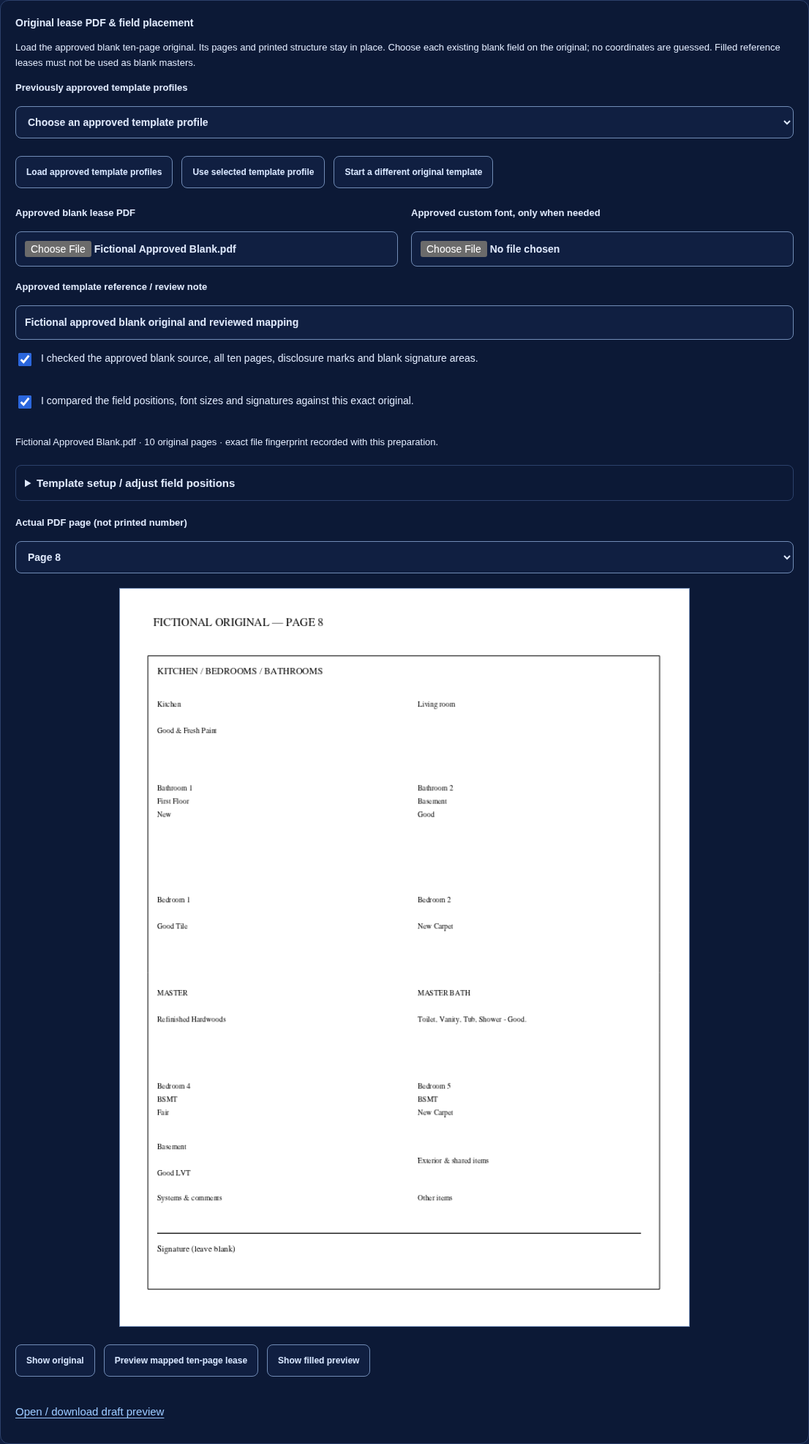
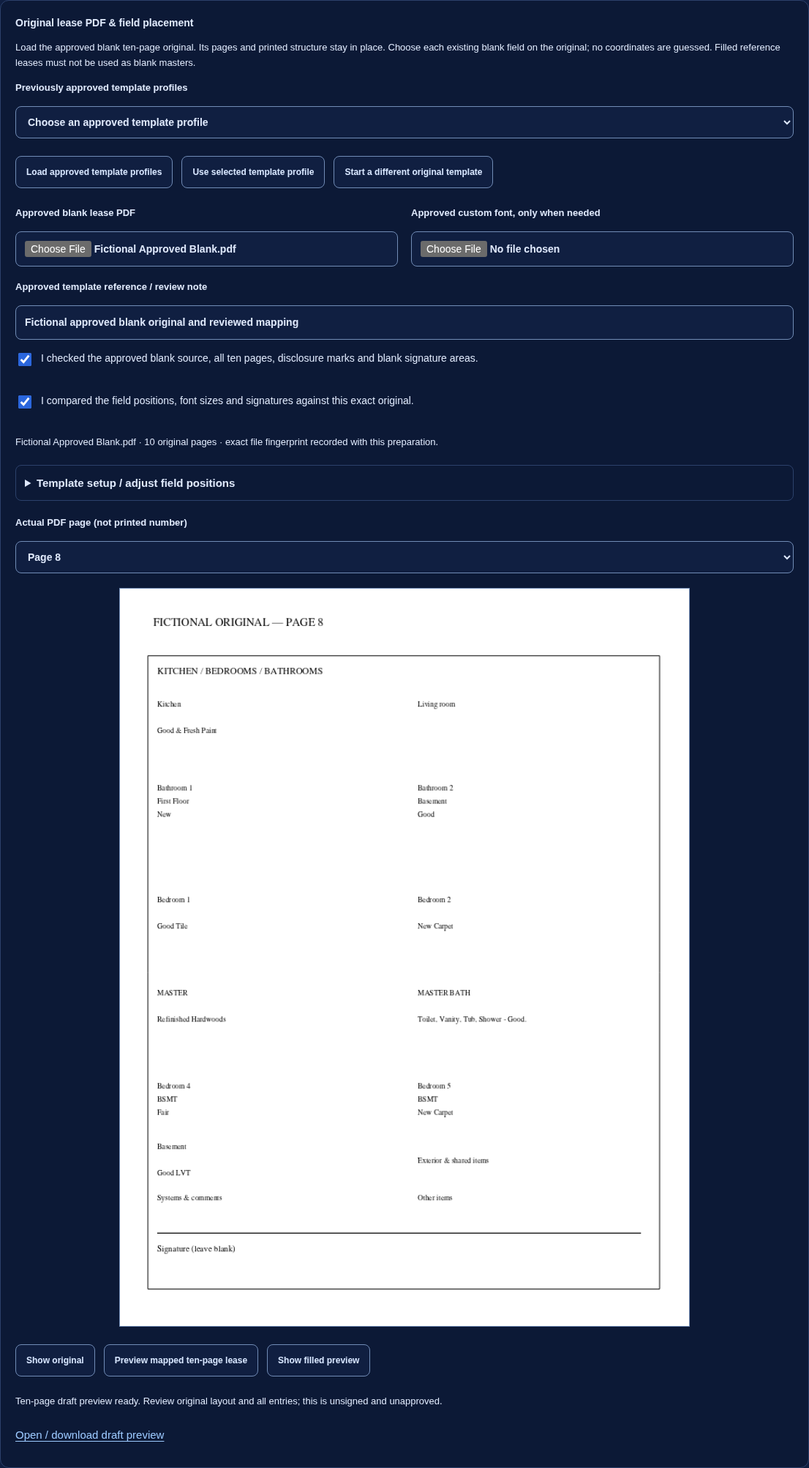
Harden lease approval and asynchronous preview recovery

diff --git a/lease-template-editor.js b/lease-template-editor.js
@@ -42,6 +42,7 @@
  settings.append(el('p','Click a blank position on the original to set X/Y, then verify its dimensions and original font. Signatures remain unfilled. Changes require a fresh PDF preview and review.'));
  const previewActions=el('div');previewActions.className='lease-draft-actions';
  previewActions.append(button('Show original',()=>render(original)),button('Preview mapped ten-page lease',preview),button('Show filled preview',()=>render(previewBytes)));host.append(previewActions);
+ const pdfStatus=el('p');pdfStatus.id='lease-template-preview-status';pdfStatus.setAttribute('role','status');host.append(pdfStatus);
  const previewLink=el('a','Open / download draft preview');previewLink.id='lease-template-preview-link';previewLink.hidden=true;previewLink.target='_blank';previewLink.rel='noopener';host.append(previewLink);
  D.getPage8Host().append(host);
  const contextHost=el('section');contextHost.className='lease-unit-context';contextHost.setAttribute('aria-label','Saved unit and lease context');const contextStatus=el('p');contextStatus.id='lease-template-context';
@@ -69,7 +70,7 @@
  }
  function invalidate(){dataFingerprint=E.canonical(data());previewFingerprint='';previewBytes=null;reviewConfirm.checked=false;if(previewLink.href)URL.revokeObjectURL(previewLink.href);previewLink.removeAttribute('href');previewLink.hidden=true;controls();bindings();}
  function bindings(){const previous=binding.value;binding.replaceChildren();for(const key of Object.keys(P.values(D.getState()||{})).filter(k=>!k.includes('/unplaced/')))binding.add(new Option(key.replaceAll('slot/','Page 8 / ').replaceAll('term/','Lease / '),key));if([...binding.options].some(o=>o.value===previous))binding.value=previous;}
- function clear(){clearTimeout(liveTimer);epoch++;contextRead++;renderTicket++;busy=false;original=null;info=null;fontBytes=null;fontSha256='';map=null;record=null;pending=null;previewBytes=null;sourceContext=null;contextUnit='';currentLease='';activeMap=-1;file.value='';fontFile.value='';importFile.value='';reference.value='';originalReviewed.checked=false;mappingReviewed.checked=false;sourceStatus.textContent='Choose the approved blank original; exact layout cannot be verified from the reconstructed draft.';contextStatus.textContent='Select a protected unit to load recorded facts. Unknown room facts stay unconfirmed.';lease.replaceChildren(new Option('New tenancy / no source lease',''));conditionVersion.replaceChildren(new Option('Latest approved conditions',''));saved.replaceChildren();knownProfiles=[];profiles.replaceChildren(new Option('Choose an approved template profile',''));mapList.replaceChildren();canvas.width=1;canvas.height=1;canvas.removeAttribute('data-view');page.value='8';boxes.replaceChildren();status.textContent='';invalidate();}
+ function clear(){clearTimeout(liveTimer);epoch++;contextRead++;renderTicket++;busy=false;original=null;info=null;fontBytes=null;fontSha256='';map=null;record=null;pending=null;previewBytes=null;sourceContext=null;contextUnit='';currentLease='';activeMap=-1;file.value='';fontFile.value='';importFile.value='';reference.value='';originalReviewed.checked=false;mappingReviewed.checked=false;sourceStatus.textContent='Choose the approved blank original; exact layout cannot be verified from the reconstructed draft.';contextStatus.textContent='Select a protected unit to load recorded facts. Unknown room facts stay unconfirmed.';lease.replaceChildren(new Option('New tenancy / no source lease',''));conditionVersion.replaceChildren(new Option('Latest approved conditions',''));saved.replaceChildren();knownProfiles=[];profiles.replaceChildren(new Option('Choose an approved template profile',''));mapList.replaceChildren();canvas.width=1;canvas.height=1;canvas.removeAttribute('data-view');page.value='8';boxes.replaceChildren();status.textContent='';pdfStatus.textContent='';invalidate();}
  function savedFile(bytes,name,type='application/pdf'){const url=URL.createObjectURL(new Blob([bytes],{type})),a=el('a');a.href=url;a.download=name;document.body.append(a);a.click();a.remove();setTimeout(()=>URL.revokeObjectURL(url),30000);}
  async function pdfModule(){if(!pdfjs){pdfjs=await import('./vendor/lease-pdf/pdfjs/pdf.mjs');pdfjs.GlobalWorkerOptions.workerSrc=new URL('vendor/lease-pdf/pdfjs/pdf.worker.mjs',document.baseURI).href;}return pdfjs;}
  async function render(bytes){
@@ -92,7 +93,7 @@
  mapList.onchange=()=>{activeMap=mapList.value===''?-1:Number(mapList.value);const r=activeMap>=1000?map?.protectedAreas[activeMap-1000]:map?.fields[activeMap];if(!r)return;page.value=String(r.page);if(r.key)binding.value=r.key;for(const [n,v]of [[x,r.x],[y,r.y],[width,r.width],[height,r.height],[size,r.size||9]])n.value=String(v);font.value=r.font||'Helvetica';align.value=r.align||'left';kind.value=activeMap>=1000?'signature':'field';render(original)};
  canvas.onclick=event=>{if(!info||canvas.dataset.view!=='original'||busy)return;const rect=canvas.getBoundingClientRect(),dims=info.pages[Number(page.value)-1];x.value=((event.clientX-rect.left)/rect.width*dims.width).toFixed(2);y.value=(dims.height-(event.clientY-rect.top)/rect.height*dims.height-Number(height.value)).toFixed(2);};
  page.onchange=()=>render(canvas.dataset.view==='preview'?previewBytes:original);
- file.onchange=async()=>{const user=C.user?.id,ticket=++epoch,chosen=file.files[0];if(!user||!chosen)return;original=null;info=null;invalidate();try{const bytes=new Uint8Array(await chosen.arrayBuffer()),source=await E.inspect(bytes);if(!live(ticket,user))return;
+ file.onchange=async()=>{const user=C.user?.id,ticket=++epoch,chosen=file.files[0];if(!user||!chosen)return;original=null;info=null;renderTicket++;canvas.width=1;canvas.height=1;canvas.removeAttribute('data-view');invalidate();try{const bytes=new Uint8Array(await chosen.arrayBuffer()),source=await E.inspect(bytes);if(!live(ticket,user))return;
    if(map&&map.templateSha256!==source.sha256&&record)throw Error('Attach the exact original for this saved template; its fingerprint differs.');
    original=bytes;info=source;if(!map||map.templateSha256!==source.sha256){map={schema_version:'oaktown.lease-template-map.v1',templateSha256:source.sha256,pages:source.pages,fields:[],protectedAreas:[]};originalReviewed.checked=false;mappingReviewed.checked=false}
    sourceStatus.textContent=chosen.name+' · 10 original pages · exact file fingerprint recorded with this preparation.';refreshMapList();invalidate();await render(original);
@@ -101,11 +102,11 @@
  importFile.onchange=async()=>{const user=C.user?.id,ticket=epoch,chosen=importFile.files[0];if(!chosen||!user)return;try{if(!info)throw Error('Load the exact original before importing its mapping.');if(chosen.size>250000)throw Error('Mapping file is too large.');const candidate=JSON.parse(await chosen.text());E.validateMap(candidate,info);if(!live(ticket,user))return;map=candidate;mappingReviewed.checked=false;refreshMapList();invalidate();say('Mapping loaded. Review it on this exact original.')}catch(error){if(live(ticket,user))say(error.message)}};
  for(const n of [reference,originalReviewed,mappingReviewed,reviewConfirm])n.addEventListener('change',()=>{if(n!==reviewConfirm)invalidate();controls()});
  reference.addEventListener('input',invalidate);
- async function preview(){const user=C.user?.id,ticket=epoch,snapshot=data();if(!user)return;try{if(!original)throw Error('Attach the approved original PDF first.');const result=await E.generate(original,snapshot,{fontkit:window.fontkit,fontBytes,viewerUser:()=>C.user?.id});if(!live(ticket,user)||E.canonical(snapshot)!==E.canonical(data()))return;previewBytes=result.bytes;if(!await render(previewBytes)){previewFingerprint='';controls();return}if(!live(ticket,user)||E.canonical(snapshot)!==E.canonical(data()))return;previewFingerprint=E.canonical(snapshot);if(previewLink.href)URL.revokeObjectURL(previewLink.href);previewLink.href=URL.createObjectURL(new Blob([previewBytes],{type:'application/pdf'}));previewLink.download='DRAFT - Lease Preview.pdf';previewLink.hidden=false;say('Ten-page draft preview ready. Review original layout and all entries; this is unsigned and unapproved.');controls()}catch(error){if(live(ticket,user))say(error.message)}}
- function schedulePreview(){clearTimeout(liveTimer);if(!original||!map?.fields?.length||!originalReviewed.checked||!mappingReviewed.checked||busy||pending)return;liveTimer=setTimeout(()=>{if(!busy&&!pending&&document.getElementById('newlease-form')?.contains(document.activeElement))preview()},450);}
+ async function preview({automatic=false}={}){if(!automatic)clearTimeout(liveTimer);const notice=message=>{pdfStatus.textContent=message;if(!automatic)say(message)};const user=C.user?.id,ticket=epoch,snapshot=data();if(!user)return;try{if(!original)throw Error('Attach the approved original PDF first.');const result=await E.generate(original,snapshot,{fontkit:window.fontkit,fontBytes,viewerUser:()=>C.user?.id});if(!live(ticket,user)||E.canonical(snapshot)!==E.canonical(data()))return;previewBytes=result.bytes;if(!await render(previewBytes)){previewFingerprint='';controls();return}if(!live(ticket,user)||E.canonical(snapshot)!==E.canonical(data()))return;previewFingerprint=E.canonical(snapshot);if(previewLink.href)URL.revokeObjectURL(previewLink.href);previewLink.href=URL.createObjectURL(new Blob([previewBytes],{type:'application/pdf'}));previewLink.download='DRAFT - Lease Preview.pdf';previewLink.hidden=false;notice('Ten-page draft preview ready. Review original layout and all entries; this is unsigned and unapproved.');controls()}catch(error){if(live(ticket,user))notice(error.message)}}
+ function schedulePreview(){clearTimeout(liveTimer);if(!original||!map?.fields?.length||!originalReviewed.checked||!mappingReviewed.checked||busy||pending)return;liveTimer=setTimeout(()=>{if(!busy&&!pending&&document.getElementById('newlease-form')?.contains(document.activeElement))preview({automatic:true})},450);}
  function readiness(){const snapshot=data(),issues=[...M.readiness(snapshot.state).missing,...P.layoutProblems(snapshot.state)];if(!original||!map)issues.push('Attach the exact approved original and field mapping.');else{try{E.validateMap(map,info);issues.push(...E.coverage(snapshot))}catch(error){issues.push(error.message)}}if(!originalReviewed.checked||!mappingReviewed.checked||!reference.value.trim())issues.push('Review and identify the blank master and mapping.');if(previewFingerprint!==E.canonical(snapshot))issues.push('Preview and review this exact current PDF first.');return issues;}
  async function mutate(action,payload){
-  const user=C.user?.id,ticket=epoch;if(!user||busy)return;busy=true;D.setBusy(true);controls();
+  const user=C.user?.id,ticket=epoch;if(!user||busy)return;clearTimeout(liveTimer);busy=true;D.setBusy(true);controls();
   try{const response=await native(action,payload);if(!live(ticket,user))return;const saved=await native('get',{id:payload.id});if(!live(ticket,user))return;
    if(response.id!==saved.id||response.version!==saved.version||E.canonical(response.data)!==E.canonical(saved.data)||E.canonical(saved.data)!==E.canonical(data()))throw Error('Saved preparation could not be independently verified. Retry the identical request.');
    if(action==='approve'&&!E.approved(saved.data,saved))throw Error('Approval receipt could not be verified.');
@@ -119,14 +120,14 @@
  async function approve(){if(busy||pending||!record||record.status!=='ready'||!reviewConfirm.checked)return;const issues=readiness();if(issues.length){say(issues.join(' '));return}const payload={id:record.id,expected_version:record.version,request_ref:crypto.randomUUID(),reviewed:true,confirmation:'APPROVE '+record.id+' VERSION '+record.version};pending={action:'approve',payload};await mutate('approve',payload);}
  async function retry(){if(pending&&!busy)await mutate(pending.action,structuredClone(pending.payload));}
  async function list(){const user=C.user?.id,ticket=epoch;if(!user||busy)return;try{const result=await native('list',D.getState()?.unitId?{unit_id:D.getState().unitId}:{});if(!live(ticket,user))return;if(!Array.isArray(result?.cases))throw Error('Saved preparation list is unavailable.');saved.replaceChildren(...result.cases.map(r=>new Option(r.status+' · version '+r.version+' · '+new Date(r.updated_at).toLocaleString(),r.id)));say(result.has_more?'Showing the latest 50 preparations for this selection.':'Saved preparations loaded. Loading replaces current inputs only after confirmation.')}catch(error){if(live(ticket,user))say(error.message)}}
- async function load(){const user=C.user?.id,ticket=epoch,id=saved.value;if(!id||!user||busy)return;if(!confirm('Load this saved preparation and replace current working inputs?'))return;try{const result=await native('get',{id});if(!live(ticket,user))return;restoring=true;try{D.restore(result.data.state)}finally{restoring=false}record=result;currentLease=result.data.leaseId||'';const t=result.data.template||{};map=t.map||null;reference.value=t.reference||'';originalReviewed.checked=t.originalReviewed===true;mappingReviewed.checked=t.mappingReviewed===true;fontSha256=t.fontSha256||'';original=null;info=null;fontBytes=null;file.value='';fontFile.value='';canvas.width=1;canvas.height=1;canvas.removeAttribute('data-view');page.value='8';contextUnit='';loadContext();refreshMapList();invalidate();say('Saved preparation loaded. Attach the same original PDF/font to preview or export; stored conditions are not a new inspection.');controls()}catch(error){restoring=false;if(live(ticket,user))say(error.message)}}
+ async function load(){const user=C.user?.id,ticket=epoch,id=saved.value,starting=E.canonical(data());if(!id||!user||busy)return;if(!confirm('Load this saved preparation and replace current working inputs?'))return;try{const result=await native('get',{id});if(!live(ticket,user))return;if(starting!==E.canonical(data()))throw Error('Working inputs changed while loading. Review them before loading again.');restoring=true;try{D.restore(result.data.state)}finally{restoring=false}record=result;currentLease=result.data.leaseId||'';const t=result.data.template||{};map=t.map||null;reference.value=t.reference||'';originalReviewed.checked=t.originalReviewed===true;mappingReviewed.checked=t.mappingReviewed===true;fontSha256=t.fontSha256||'';original=null;info=null;fontBytes=null;file.value='';fontFile.value='';canvas.width=1;canvas.height=1;canvas.removeAttribute('data-view');page.value='8';contextUnit='';loadContext();refreshMapList();invalidate();say('Saved preparation loaded. Attach the same original PDF/font to preview or export; stored conditions are not a new inspection.');controls()}catch(error){restoring=false;if(live(ticket,user))say(error.message)}}
  async function downloadFinal(){const user=C.user?.id,ticket=epoch,snapshot=data();if(!user||busy||pending)return;try{const approved=record&&await native('get',{id:record.id});if(!live(ticket,user))return;if(E.canonical(snapshot)!==E.canonical(data()))throw Error('Inputs changed; review again.');const result=await E.generate(original,snapshot,{fontkit:window.fontkit,fontBytes,approval:approved,final:true,viewerUser:()=>C.user?.id});if(!live(ticket,user))return;if(E.canonical(snapshot)!==E.canonical(data()))throw Error('Inputs changed during generation; review the current preparation.');savedFile(result.bytes,'Prepared Lease - unsigned.pdf');say('Approved preparation PDF downloaded. Signature areas remain unsigned; nothing was sent.')}catch(error){if(live(ticket,user))say(error.message)}}
  async function loadContext(){const state=D.getState(),unit=state?.unitId,user=C.user?.id,ticket=++contextRead;if(!user||!uuid(unit))return;contextUnit=unit;try{const result=await native('context',{unit_id:unit});if(ticket!==contextRead||C.user?.id!==user||D.getState()?.unitId!==unit)return;if(result?.unit?.id!==unit||!Array.isArray(result.leases))throw Error('Unit context could not be verified.');sourceContext=result;lease.replaceChildren(new Option('New tenancy / no source lease',''),...result.leases.map(l=>new Option((l.lease_label||'Lease')+' · '+l.verification_status,l.id)));lease.value=currentLease;conditionVersion.replaceChildren(new Option('Latest approved conditions',''),...(result.condition_history||[]).map((h,i)=>new Option('Version '+h.version+' · '+new Date(h.approved_at).toLocaleString(),String(i))));
    const u=result.unit;contextStatus.textContent='Recorded unit: '+(u.unit_label||u.unit_code||'selected unit')+'. Bedrooms: '+(u.bedrooms??'not recorded')+'; bathrooms: '+(u.bathrooms??'not recorded')+'; basement: '+(u.basement??'not recorded')+'. Confirm or correct the room facts above. '+result.leases.length+' lease record(s). '+(result.approved_conditions?'Previously approved conditions are available for explicit reuse.':'No approved condition snapshot is recorded.');
   }catch(error){if(ticket===contextRead&&C.user?.id===user){sourceContext=null;contextStatus.textContent=error.status===404?'Saved unit/condition context requires the lease preparation backend. Existing protected address selection still works.':error.message}}}
  async function loadProfiles(){const user=C.user?.id,ticket=epoch;if(!user||busy||pending)return;try{const result=await native('templates');if(!live(ticket,user))return;if(!Array.isArray(result.templates))throw Error('Approved template profiles unavailable.');knownProfiles=result.templates;profiles.replaceChildren(new Option('Choose an approved profile',''),...knownProfiles.map((t,i)=>new Option(t.reference||'Reviewed template '+(i+1),String(i))));say(knownProfiles.length?'Approved profiles loaded. Attach the exact matching blank PDF before preview.':'No approved profile yet. Load the approved blank original and review its field map before saving for approval.')}catch(error){if(live(ticket,user))say(error.message)}}
- function differentTemplate(){if(busy||pending)return;if(map&&!confirm('Replace the current PDF mapping? Saved preparation history is retained; this working mapping will be cleared.'))return;original=null;info=null;map=null;fontBytes=null;fontSha256='';file.value='';fontFile.value='';originalReviewed.checked=false;mappingReviewed.checked=false;reference.value='';activeMap=-1;refreshMapList();invalidate();canvas.width=1;canvas.height=1;canvas.removeAttribute('data-view');page.value='8';sourceStatus.textContent='Choose the new approved blank original. Its mapping must be reviewed again.';}
- function useProfile(){if(busy||pending||profiles.value==='')return;const t=knownProfiles[Number(profiles.value)];if(!t)return;if(map&&!confirm('Use this reviewed template profile in place of the current working mapping?'))return;original=null;info=null;fontBytes=null;file.value='';fontFile.value='';map=structuredClone(t.map);fontSha256=t.fontSha256||'';reference.value=t.reference||'';originalReviewed.checked=false;mappingReviewed.checked=false;activeMap=-1;refreshMapList();invalidate();sourceStatus.textContent='Profile selected. Attach its exact approved blank PDF and review placement for this property.';}
+ function differentTemplate(){if(busy||pending)return;if(map&&!confirm('Replace the current PDF mapping? Saved preparation history is retained; this working mapping will be cleared.'))return;original=null;info=null;map=null;fontBytes=null;fontSha256='';file.value='';fontFile.value='';originalReviewed.checked=false;mappingReviewed.checked=false;reference.value='';activeMap=-1;D.markDirty();refreshMapList();invalidate();canvas.width=1;canvas.height=1;canvas.removeAttribute('data-view');page.value='8';sourceStatus.textContent='Choose the new approved blank original. Its mapping must be reviewed again.';}
+ function useProfile(){if(busy||pending||profiles.value==='')return;const t=knownProfiles[Number(profiles.value)];if(!t)return;if(map&&!confirm('Use this reviewed template profile in place of the current working mapping?'))return;original=null;info=null;fontBytes=null;file.value='';fontFile.value='';map=structuredClone(t.map);fontSha256=t.fontSha256||'';reference.value=t.reference||'';originalReviewed.checked=false;mappingReviewed.checked=false;activeMap=-1;D.markDirty();refreshMapList();invalidate();sourceStatus.textContent='Profile selected. Attach its exact approved blank PDF and review placement for this property.';}
  function patchState(changes){restoring=true;try{D.restore({...D.getState(),...changes},{keepStep:true})}finally{restoring=false}invalidate()}
  function useLease(){const chosen=sourceContext?.leases.find(l=>l.id===lease.value);if(!chosen||chosen.verification_status!=='verified'){say('Select an explicitly verified lease; unverified or conflicting records are not copied.');return}const rents=(sourceContext.rents||[]).filter(r=>r.lease_id===chosen.id&&r.verification_status==='verified'&&r.billing_period==='monthly'&&r.effective_from&&r.effective_from<=window.OpsRenewalRules.leaseDate()&&(!r.effective_to||r.effective_to>=window.OpsRenewalRules.leaseDate()));patchState({start:chosen.term_start||'',end:chosen.term_end||'',...(rents.length===1?{rent:String(rents[0].amount_usd)}:{})});say('Copied only selected verified lease dates'+(rents.length===1?' and its single verified current monthly rent.':'; no single verified current rent, so rent was left for manual confirmation.')+' Review the intended new term. Prior tenant names were not copied.');}
  function useConditions(){const approved=conditionVersion.value===''?sourceContext?.approved_conditions:sourceContext?.condition_history?.[Number(conditionVersion.value)];if(!approved){say('No approved conditions available for this unit.');return}if(!confirm('Reuse this unit’s previously approved conditions as an editable starting point? Recheck the actual property and current layout before review.'))return;patchState({...approved.state,conditionsReviewed:false});say('Previously approved conditions loaded as unreviewed working inputs. Confirm them against the actual unit.');}

diff --git a/lease-preparation.js b/lease-preparation.js
@@ -119,7 +119,7 @@
   roomApplicability.hidden=!roomApplicability.textContent;
   const g=el('div','lease-draft-grid');conditionFields.replaceChildren(el('h4','',current.title),g);
   current.items.forEach((item,i)=>{
-   const key=current.key+'::'+item,n=input(g,'condition-'+i,item);n.value=notApplicable?'':conditions[key]||'';n.readOnly=notApplicable;
+   const key=current.key+'::'+item,n=input(g,'condition-'+i,item);n.value=notApplicable?'':conditions[key]||'';n.readOnly=notApplicable;n.disabled=!cloud.user||externalBusy;
    const preset=el('select');preset.id='newlease-preset-'+i;preset.setAttribute('aria-label','Preset for '+item);preset.append(new Option('Choose description',''),...(P?.presets||M.conditionOptions).map(v=>new Option(v,v)),new Option('Custom','__custom__'));
    const syncPreset=()=>preset.value=n.value?(P?.presets||M.conditionOptions).includes(n.value)?n.value:'__custom__':'';syncPreset();preset.disabled=notApplicable||externalBusy||!cloud.user;const textLabel=n.parentElement,pair=el('div','lease-condition-pair'),presetLabel=el('label','lease-draft-field','Preset for '+item);presetLabel.htmlFor=preset.id;presetLabel.append(preset);textLabel.replaceWith(pair);pair.append(presetLabel,textLabel);
    preset.addEventListener('change',()=>{if(preset.value==='__custom__'){n.focus();return}n.value=preset.value;n.dispatchEvent(new Event('input',{bubbles:true}))});
@@ -190,7 +190,7 @@
  });
  window.addEventListener('ops-portfolio-loaded',refreshUnits);
  window.addEventListener('ops-auth-change',()=>{const nextId=cloud.user?.id||null;if(nextId!==userId){userId=nextId;reset()}refreshUnits();gate()});
- window.OpsLeaseDraft=Object.freeze({getState:()=>cloud.user?state():null,getHost:()=>steps[4],getPage8Host:()=>steps[3],getContextHost:()=>steps[1],setBusy(value){externalBusy=!!value;gate()},setMessage(text){status.textContent=text},setClean(){dirty=false},restore(saved,{keepStep=false}={}){
+ window.OpsLeaseDraft=Object.freeze({getState:()=>cloud.user?state():null,getHost:()=>steps[4],getPage8Host:()=>steps[3],getContextHost:()=>steps[1],setBusy(value){externalBusy=!!value;gate()},setMessage(text){status.textContent=text},setClean(){dirty=false},markDirty(){if(cloud.user)dirty=true},restore(saved,{keepStep=false}={}){
   const previousStep=step;
   if(!cloud.user||!saved||!units.has(saved.unitId))throw Error('The saved unit is unavailable. Refresh the protected portfolio.');
   if(keepStep&&saved.unitId!==lastUnit)throw Error('Keep-step updates must stay on the selected unit.');

diff --git a/lease-template-pdf.js b/lease-template-pdf.js
@@ -58,7 +58,7 @@
   const who=viewerUser();if(!who)throw Error('Sign in to prepare the lease.');
   const source=await inspect(bytes,{PDFLib}),map=data?.template?.map;validateMap(map,source);
   if(data.template.originalReviewed!==true||data.template.mappingReviewed!==true||!String(data.template.reference||'').trim())throw Error('Review the approved blank original, all ten pages and exact field positions first.');
-  const problems=P.layoutProblems(data.state);if(problems.length)throw Error(problems.join(' '));
+  const problems=final?P.reviewProblems(data.state):P.layoutProblems(data.state);if(problems.length)throw Error(problems.join(' '));
   if(final&&!approved(data,approval))throw Error('Final export requires the exact saved, approved preparation and server receipt.');
   if(final&&coverage(data).length)throw Error(coverage(data).join(' '));
   const L=libs(PDFLib),doc=await L.PDFDocument.load(bytes,{updateMetadata:false}),values=P.values(data.state),fonts=new Map();

diff --git a/lease-page8-model.js b/lease-page8-model.js
@@ -51,5 +51,5 @@
  function payload(state,{unitId,leaseId=null,template=null}={}){
   return {schema_version:'oaktown.lease-preparation.v1',unit_id:unitId||null,lease_id:leaseId||null,state:JSON.parse(JSON.stringify(state)),template:template?JSON.parse(JSON.stringify(template)):null};
  }
- return Object.freeze({sections,presets,terms,placement,rooms,layoutProblems,values,exactPreset,payload});
+ return Object.freeze({sections,presets,terms,placement,rooms,layoutProblems,reviewProblems:state=>[...M.readiness(state).missing,...layoutProblems(state)],values,exactPreset,payload});
 });

diff --git a/HANDOFF.md b/HANDOFF.md
@@ -1,6 +1,6 @@
 # Handoff — lease generator / page 8 editor
 
-- Owner **hp**, heartbeat **2026-11-16 07:29 UTC**, claim expires **2026-11-16 07:59 UTC**. Branch `hp/lease-page8-editor`, base latest main **e96beea6dbb7b3c18dd891bd5b164823b11e55cc**. New task OPS-LEASE-PAGE8; ownership-only checkpoint, [draft PR #85](https://github.com/huzshk0707/Oaktown-ops/pull/85), opened immediately after ownership push. User explicitly requests implementation **and merge**, overriding the pasted generic no-auto-merge instruction.
+- Owner **hp**, heartbeat **2026-11-16 07:42 UTC**, claim expires **2026-11-16 08:12 UTC**. Branch `hp/lease-page8-editor`, base latest main **e96beea6dbb7b3c18dd891bd5b164823b11e55cc**. New task OPS-LEASE-PAGE8; ownership-only checkpoint, [draft PR #85](https://github.com/huzshk0707/Oaktown-ops/pull/85), opened immediately after ownership push. User explicitly requests implementation **and merge**, overriding the pasted generic no-auto-merge instruction.
 - Startup read latest main AGENTS/HANDOFF/TASKS/log -15, status/worktrees/fresh refs/open PRs/remote branches; no competing lease task claim. Existing release #84 completed at v0.5.2 (task branch final 19ec364); do not redo it. New branch from clean main; no leftovers.
 - Inspection: five-page renewal generator uses sanitized master backgrounds; new-lease form is visit-only and page 8 is vector reconstruction, not verified exact original. Existing unit/lease portfolio and lease-reference catalog must be reused; no duplicate property/lease database. User specifies 3/4/5 bedrooms, editable labels/locations and independent multi-column placements; absent rooms N/A label with blank dependent fields supersedes old N/A-every-line behavior.
 - Source blocker: supplied Drive folder redirects to Google sign-in over public HTTP. User says Drive access is granted; this execution's callable tools currently expose no Drive/search/download connector or desktop/browser session tool. Checking authorized available access only; do not borrow credentials or claim original matching from reconstructed PDFs. Need approved blank ten-page master and five completed examples for exact comparison. Continue editor/persistence/template-preserving infrastructure independently; never invent original coordinates/clauses or silently mark a template verified.
@@ -9,6 +9,8 @@
 - Milestone 3 WIP: strict Ready validation added server-side for facts/services, active placement collision/unplaced rooms, map bounds/signature rectangles and omission of entered observations. **Disposable SQL suite passes**, including new rejection cases. Original canvas/map editor and native saved draft/Ready/Approve/readback/final-download controller wired into existing form with shared state/auth; app/model/PDF engine syntax and inventory pass. Existing browser rerun **7/8 passed**, one horizontal-overflow failure in existing six-theme/mobile regression. No production change; not ready to merge.
 - Milestone 4: real PDF.js rendering and complete mocked draft→Ready→Approve→readback→unsigned download flow pass. Lost-response immutable retry, pending input lock, sign-out clearing and Custom room controls covered. Pinned PDF.js 5.4.149 replaces incompatible 6.x API. Existing six-theme narrow regression repaired (download-button wrap): **12/12 combined lease browser checks passed**. Strict receipt metadata, approved template profiles and checkbox bindings added after that run; final rerun pending. No production schema apply.
 - Milestone 5: 233/233 Node and 18/18 focused browsers passed at the prior implementation check, including saved reload, unit change, missing backend/revoked role/CAS/readback failure, all desktop widths/themes and ten-page rendered pixel preservation across five fictional variants. Advanced mapping hidden from routine profile use; renewal Prepare Lease entry added. Fictional screenshots/PDFs generated and inspected. Latest condition-history/strict map/actual-page-8 default changes are under final rerun; do not confuse earlier green count with that rerun.
-- **NEXT STEP:** inspect `/tmp/hp-lease-release-candidate.log` and rerun capture after any fixes, then update evidence/results and run hosted full CI. Migration+rollback/hash packet at docs/releases/LEASE-PAGE8-2026-11-16.md is staged, not live. User-authorized merge can publish the tested fail-closed UI with backend installation/source acceptance explicitly pending; no claim those prerequisites are applied. Full CI and exact-main publication/tag still required before completion.
+- Final acceptance checkpoint: **233/233 Node**, **22/22 focused browsers**, syntax/inventory and disposable SQL pass. Explicit profile reuse/live preview/overflow, stale-load edit retention, late-save signout, condition-only history reuse and pending dynamic-input lock covered. Server rejects missing approval version, invalid fees, empty active observations, omitted service/occupant/label/location and both-page late charges. Full engine revalidates readiness on final export. Refreshed fictional desktop/PDF examples inspected. Migration SHA **910ec43cfbf9389aa1a5d15fb31494b5cdd9ca07b8e9b2a61493bb3c2080a60c**, rollback **cb162af9b21b8fa72aabb9319afa54d18d43c32ad51b913e02e6337d7d4e258c**; packet updated. Still staged, not live.
+- Previous full CI at 09d10db passed 280/282 browsers; two Ready status checks exposed the live-preview callback overwriting the save status. Fixed by cancelling pending automatic previews and separating automatic PDF status from saved-review status; all 22 focused checks now pass. Hosted final rerun required for this checkpoint, not inferred from older CI.
+- **NEXT STEP:** inspect `gh pr checks 85` for the newly pushed exact head; require all three jobs (including complete browsers/captures/SQL) green, then perform the user-authorized merge with that exact head. Verify merged-main CI and Pages at the same SHA, tag next unused v0.5.x, and release claim. Backend installation and real-source comparison remain the explicit OPS-LEASE-PAGE8.ACTIVATE follow-up; no live test records or unrelated merges.
 - Remaining acceptance: original Drive files unavailable through current exposed tools despite user authorization. No guessed original map or claimed Leslie visual match. UI supports one-time advanced original mapping and approved profile reuse. Supabase management credentials/tool absent; native RPC actions fail visibly and cannot approve/export if backend is absent. Need authorized operator installation plus real-source map/visual review; do not invent either result.
 - Test resources: own container hp-lease-page8-pg, network none, fictional oaktown_portfolio_ci; OAKTOWN_PSQL_BIN=/tmp/hp-lease-bin/psql. Server session 87513 serves current repo on 127.0.0.1:8765. Browser/Node tooling outside repo at /workspace/.cache/oaktown-tools; Playwright browser cache /workspace/.cache/ms-playwright. No user/private documents in Git.

diff --git a/docs/LEASE-PAGE8-EDITOR.md b/docs/LEASE-PAGE8-EDITOR.md
@@ -107,7 +107,7 @@ synthetic examples below demonstrate behavior, not Leslie's original design.
 - `node scripts/workflow-states.cjs --check`: 30 families / 68 scripts covered.
 - Focused browser checks: `npx playwright test tests/lease-preparation.e2e.spec.cjs
   tests/lease-template.e2e.spec.cjs tests/lease-template-render.e2e.spec.cjs
-  --workers=1 --reporter=line` (18 cases; final CI result linked in the PR).
+  --workers=1 --reporter=line` (22 cases; final CI result linked in the PR).
 - `PGDATABASE=oaktown_portfolio_ci node tests/lease-preparation-database.cjs`:
   disposable clones only, using the historical baseline from the CI workflow.
   Covers native sessions/roles, direct/anonymous/OAuth denial, actor/unit linkage,

diff --git a/AGENTS.md b/AGENTS.md
@@ -115,7 +115,7 @@ and do not conflate Leslie's inspection with Huzy's personal EOD actions.
 - New-lease export overlays the exact approved original and reviewed field map.
   Confirmed absent areas use an N/A label with blank dependent conditions. Unknown
   facts remain unknown. Backend application and source visual validation are
-  separate release gates; a fictional fixture is never an approved real master.
+  separate activation gates; a fictional fixture is never an approved real master.
 - Preserve document clauses/layout and original unit identity; never infer signatures,
   execution, approval, payment, legal service or a verified condition from a preview.
 

diff --git a/docs/releases/LEASE-PAGE8-2026-11-16.md b/docs/releases/LEASE-PAGE8-2026-11-16.md
@@ -19,7 +19,7 @@ Files to deploy (review exact bytes, not a retyped SQL excerpt):
 
 | File | SHA-256 |
 | --- | --- |
[3 lines of base64/hex data omitted]
 
 ## Operator preflight / installation
